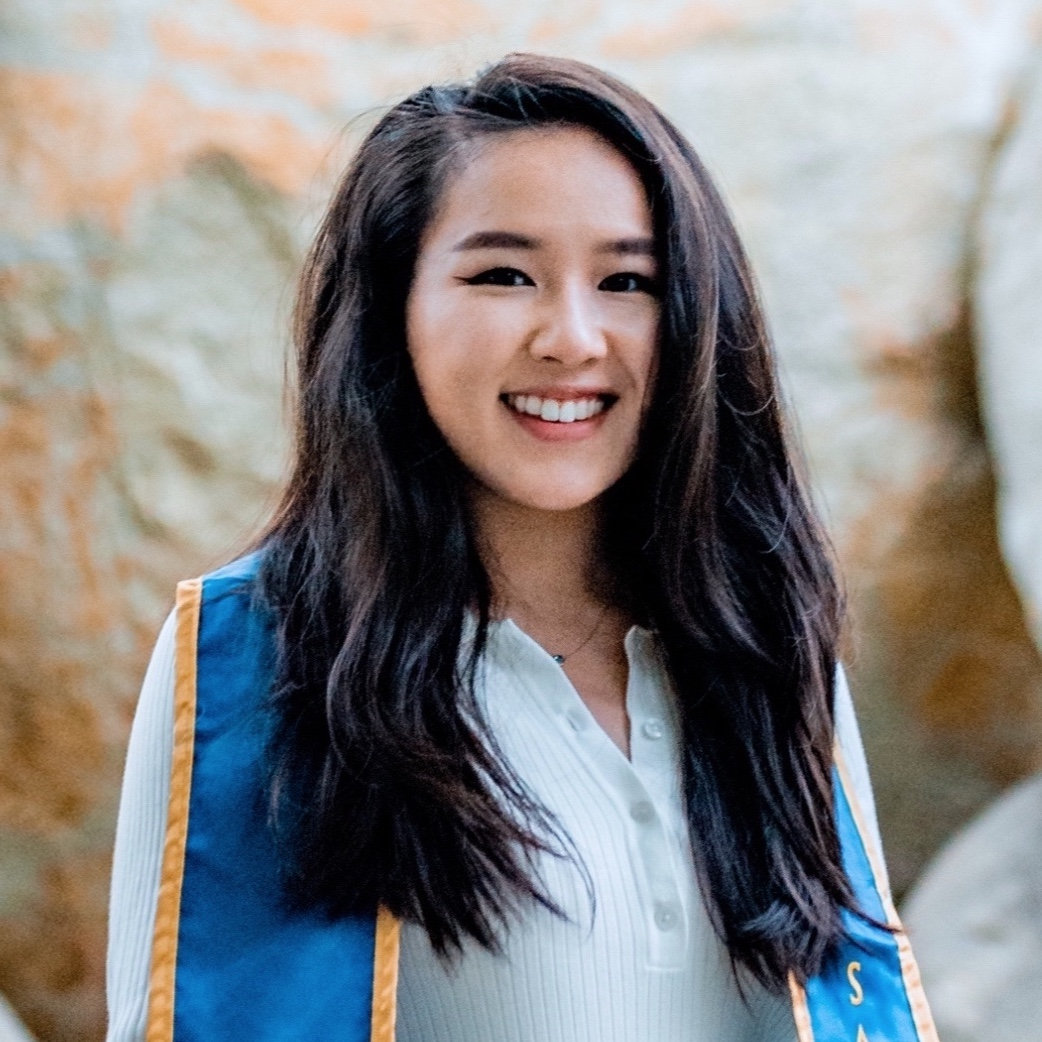
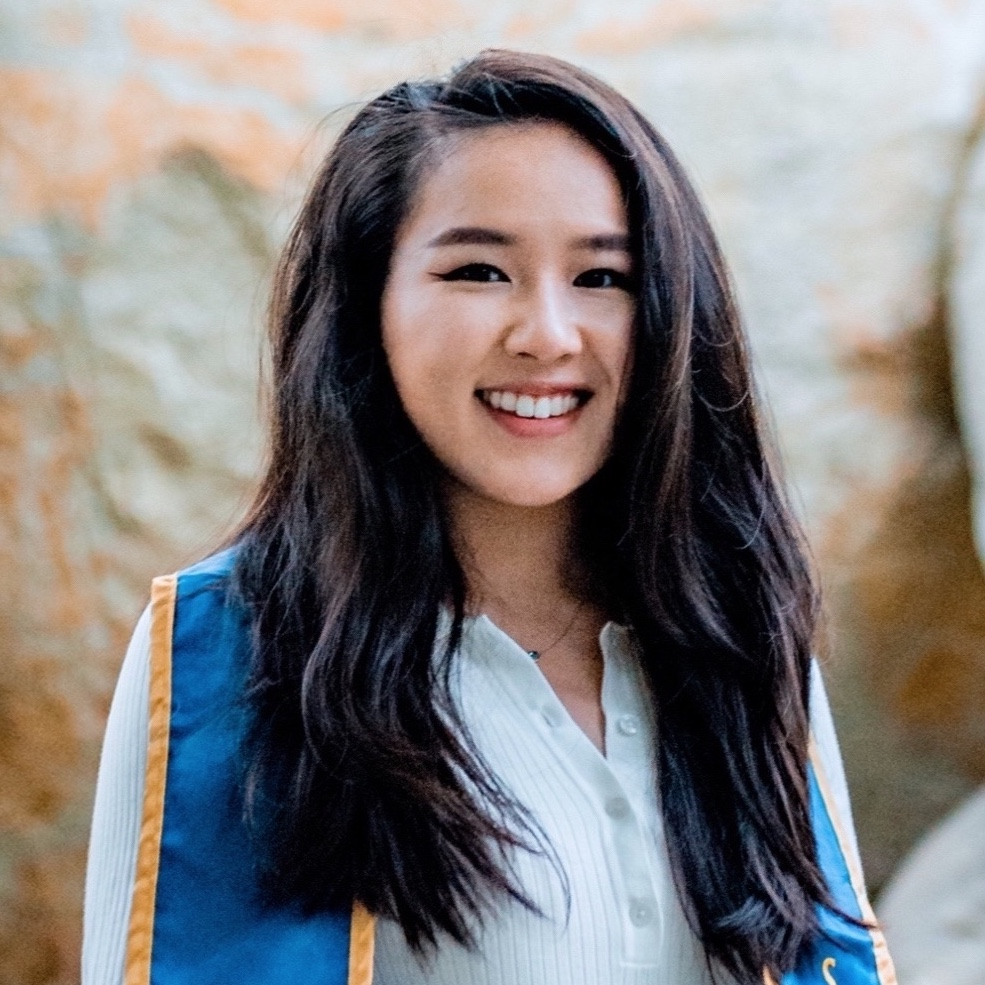
cropped prof pic

diff --git a/index.html b/index.html
@@ -134,7 +134,7 @@
                <!-- <div class="col-lg-3 col-md-6 d-flex align-items-stretch"> -->
                 <div class="member">
                   <div class="member-img text-center">
-                    <img id="prof-pic" src="assets/img/team/team-00.jpg" class="img-fluid rounded-circle" alt=""> 
+                    <img id="prof-pic" src="assets/img/team/team-00.jpg" class="img-fluid" alt=""> 
                   </div>
                 </div>
               </div>
